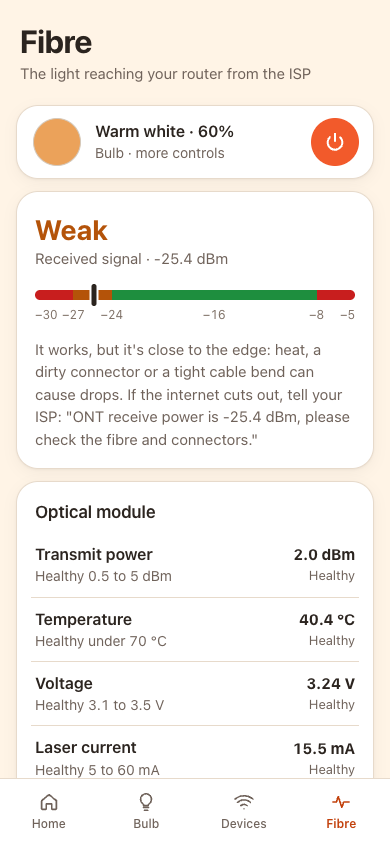
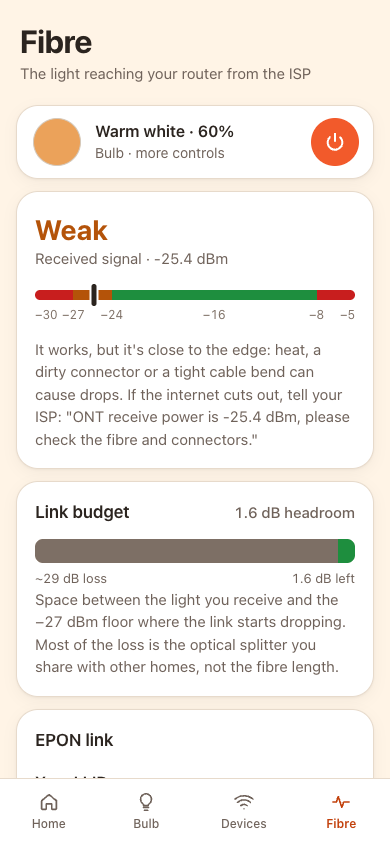
Fibre scope: EPON LLID, live MPCP clock, link budget, laser-health history
Extends the Fibre tab into a telemetry scope. New read-only diag calls expose
the ONT's LLID on the shared fibre and the MPCP local-time counter (16ns ticks),
which the page advances live between polls. Adds a link-budget headroom bar
against the -27 dBm floor, and a background logger (every 5 min, 24h ring
buffer) feeding an Rx-power + laser-bias chart to spot ageing and thermal dips.

Changed region(s): [[0.0308, 0.5853, 0.9846, 0.9242]]

diff --git a/router/pages/fibre.html b/router/pages/fibre.html
@@ -7,7 +7,6 @@
 <meta name="theme-color" content="#fff4e6" media="(prefers-color-scheme: light)">
 <meta name="theme-color" content="#1c1714" media="(prefers-color-scheme: dark)">
 <title>Fibre</title>
-<link rel="icon" href="data:,">
 <link rel="stylesheet" href="/style.css">
 <style>
   .verdict { font-size: 1.75rem; font-weight: 700; line-height: 1.15; margin: .25rem 0 .125rem; }
@@ -18,16 +17,34 @@
   .scale span { position: absolute; transform: translateX(-50%); }
   .scale span:first-child { transform: none; } .scale span:last-child { transform: translateX(-100%); }
   #advice { margin-top: 1rem; }
+  /* link-budget headroom bar */
+  .budget { height: 1.5rem; border-radius: 8px; background: var(--well); overflow: hidden; display: flex; }
+  .budget i { height: 100%; display: block; }
+  .budget .used { background: var(--ink-3); }
+  .budget .head { background: var(--good); }
+  .blabel { display: flex; justify-content: space-between; font-size: .8125rem; color: var(--ink-2); margin-top: .375rem; }
+  /* MPCP clock */
+  .clock { font-variant-numeric: tabular-nums; font-size: 1.5rem; font-weight: 700; letter-spacing: -.01em; }
+  .clock small { font-size: .8125rem; font-weight: 500; color: var(--ink-2); }
+  .beat { display: inline-block; width: .5rem; height: .5rem; border-radius: 50%; background: var(--good); margin-left: .375rem; vertical-align: middle; animation: beat 1s infinite; }
+  @keyframes beat { 0%, 100% { opacity: 1; } 50% { opacity: .25; } }
+  @media (prefers-reduced-motion: reduce) { .beat { animation: none; } }
+  /* history chart */
+  .chart { width: 100%; height: 90px; display: block; }
+  .chart path { fill: none; stroke-width: 2; }
+  .legend { display: flex; gap: 1rem; font-size: .8125rem; color: var(--ink-2); margin-top: .5rem; }
+  .legend b { font-weight: 600; }
+  .swatch { display: inline-block; width: .75rem; height: .2rem; border-radius: 2px; vertical-align: middle; margin-right: .25rem; }
 </style>
 </head>
 <body>
 <header class="top"><div><h1>Fibre</h1><p id="line">The light reaching your router from the ISP</p></div></header>
+
 <section class="card strip" aria-label="Bulb">
   <span class="lamp" id="lamp" aria-hidden="true"></span>
   <a class="tx" href="/bulb"><b id="bstate"><span class="skel">loading</span></b><small>Bulb · more controls</small></a>
   <button class="power sm" id="pwr" aria-label="Turn the bulb on or off" aria-pressed="false" disabled><svg class="i" viewBox="0 0 24 24"><path d="M12 3v8M6.3 6.8a8 8 0 1 0 11.4 0"/></svg></button>
 </section>
-
 
 <section class="card" aria-label="Received signal">
   <p class="verdict" id="word"><span class="skel">loading</span></p>
@@ -35,6 +52,31 @@
   <div class="meter" aria-hidden="true"><i id="needle" style="left:0"></i></div>
   <div class="scale" aria-hidden="true"><span style="left:0">−30</span><span style="left:12%">−27</span><span style="left:24%">−24</span><span style="left:56%">−16</span><span style="left:88%">−8</span><span style="left:100%">−5</span></div>
   <p class="note" id="advice"></p>
+</section>
+
+<section class="card">
+  <h2>Link budget <span id="headnum">–</span></h2>
+  <div class="budget" aria-hidden="true"><i class="used" id="bused"></i><i class="head" id="bhead"></i></div>
+  <div class="blabel"><span id="busedl">loss to you</span><span id="bheadl">headroom</span></div>
+  <p class="note">Space between the light you receive and the −27 dBm floor where the link starts dropping. Most of the loss is the optical splitter you share with other homes, not the fibre length.</p>
+</section>
+
+<section class="card">
+  <h2>EPON link</h2>
+  <div class="list">
+    <div class="row"><span class="tx"><b>Your LLID</b><small>Your identity on the shared fibre</small></span><span class="end" id="llid">–</span></div>
+    <div class="row"><span class="tx"><b>MPCP clock <span class="beat" id="beat" aria-hidden="true"></span></b><small>16 ns ticks, kept in sync with the ISP</small></span><span class="end clock" id="mpcp">–</span></div>
+  </div>
+</section>
+
+<section class="card">
+  <h2>Laser history <span id="span" class="sub"></span></h2>
+  <svg class="chart" id="chart" viewBox="0 0 300 90" preserveAspectRatio="none" aria-hidden="true"></svg>
+  <div class="legend">
+    <span><i class="swatch" style="background:var(--good)"></i>Rx power <b id="lrx">–</b></span>
+    <span><i class="swatch" style="background:var(--action)"></i>Laser bias <b id="lbias">–</b></span>
+  </div>
+  <p class="note">Rising bias current over weeks means the laser is ageing; a daily dip in Rx can mean heat. Samples every 5 minutes, up to 24 hours.</p>
 </section>
 
 <section class="card">
@@ -46,30 +88,27 @@
     <div class="row"><span class="tx"><b>Laser current</b><small>Healthy 5 to 60 mA</small></span><span class="end" id="bias">–</span></div>
   </div>
 </section>
-<p class="note">Closer to zero is stronger. −8 to −24 dBm is healthy; below −27 dBm the line starts dropping.</p>
+
 <nav class="tabs" aria-label="Sections">
   <a href="/"><svg class="i" viewBox="0 0 24 24"><path d="M4 10.5 12 4l8 6.5V20h-5v-6H9v6H4z"/></svg>Home</a>
   <a href="/bulb"><svg class="i" viewBox="0 0 24 24"><path d="M9 18h6M10 21h4M12 3a6 6 0 0 0-3.6 10.8c.7.6 1.1 1.3 1.1 2.2h5c0-.9.4-1.6 1.1-2.2A6 6 0 0 0 12 3z"/></svg>Bulb</a>
   <a href="/devices"><svg class="i" viewBox="0 0 24 24"><path d="M2 9a15 15 0 0 1 20 0M5 12.5a10 10 0 0 1 14 0M8.5 16a5 5 0 0 1 7 0M12 19.5h.01"/></svg>Devices</a>
   <a href="/fibre" aria-current="page"><svg class="i" viewBox="0 0 24 24"><path d="M3 12h4l2-6 4 12 2-6h6"/></svg>Fibre</a>
 </nav>
+
 <script>
 const $ = id => document.getElementById(id);
-// the router answers one request at a time and refuses others for ~0.2s, so retry briefly
 async function api(q, tries = 10) {
   for (let i = 0; ; i++) {
     try { return await (await fetch("/api?a=" + q)).json(); }
     catch (e) { if (i >= tries) throw e; await new Promise(r => setTimeout(r, 200)); }
   }
 }
-// slider fill: action colour while the light is on, muted when it's off
-const fill = (el, on = true) => el.style.setProperty("--track", `linear-gradient(90deg, ${on ? "var(--action)" : "var(--ink-3)"} ${(el.value - el.min) / (el.max - el.min) * 100}%, var(--well) 0)`);
 const whiteName = k => k <= 3000 ? "Warm white" : k <= 4600 ? "Neutral white" : "Daylight";
 const tempColor = k => { const t = (k - 2200) / 4300; const a = t < .42 ? [[255,154,60],[255,233,199],t/.42] : [[255,233,199],[227,237,255],(t-.42)/.58];
   return "rgb(" + a[0].map((v, i) => Math.round(v + (a[1][i] - v) * a[2])).join(",") + ")"; };
 const lampColor = s => !s || !s.state ? "var(--well)" : s.r !== undefined && !s.temp ? `rgb(${s.r},${s.g},${s.b})` : tempColor(s.temp || 2700);
-const lamp = (color, dim) => { $("lamp").style.setProperty("--lamp", color); $("lamp").style.filter = `brightness(${.8 + .2 * dim / 100})`; };
-// compact bulb strip: the light stays one tap away on every page
+const lamp = (c, dim) => { $("lamp").style.setProperty("--lamp", c); $("lamp").style.filter = `brightness(${.8 + .2 * dim / 100})`; };
 function strip(s) {
   const on = !!(s && s.state);
   $("pwr").disabled = !s; $("pwr").classList.toggle("on", on); $("pwr").setAttribute("aria-pressed", on);
@@ -80,16 +119,41 @@ async function loadStrip() { try { strip((await api("status")).result); } catch 
 $("pwr").onclick = async () => { $("pwr").classList.toggle("on"); try { await api("set&state=toggle"); } catch {} loadStrip(); };
 loadStrip();
 
-const show = (id, v, unit, lo, hi, dp = 1) => {
-  const el = $(id), ok = v != null && v >= lo && v <= hi;
-  el.innerHTML = v == null ? "No reading" : `<b class="${ok ? "" : "bad"}">${v.toFixed(dp)} ${unit}</b><small class="${ok ? "good" : "bad"}">${ok ? "Healthy" : "Out of range"}</small>`;
-};
-async function refresh() {
+// --- MPCP clock: read once, then advance locally at 62.5M ticks/sec (resynced on each fibre poll) ---
+let mpcpBase = null, mpcpAt = 0, mpcpHz = 62500000;
+function tickClock() {
+  if (mpcpBase == null) return;
+  const ticks = mpcpBase + Math.floor((performance.now() - mpcpAt) / 1000 * mpcpHz);
+  const t = ((ticks >>> 0) >>> 0).toString().padStart(10, "0");  // 32-bit wrap, grouped
+  $("mpcp").innerHTML = t.replace(/\B(?=(\d{3})+(?!\d))/g, " ") + " <small>ticks</small>";
+}
+setInterval(tickClock, 80);
+
+const ok = (v, lo, hi) => v != null && v >= lo && v <= hi;
+const paint = (id, v, unit, good, dp = 1) => { const el = $(id);
+  el.innerHTML = v == null ? "No reading" : `<b class="${good ? "" : "bad"}">${v.toFixed(dp)} ${unit}</b><small class="${good ? "good" : "bad"}">${good ? "Healthy" : "Out of range"}</small>`; };
+
+function budget(rx, tx) {
+  // headroom above the -27 dBm receiver floor; loss = (OLT launch, assume tx-side ~+4) - rx
+  const floor = -27, head = rx - floor, launch = 4, loss = launch - rx;
+  $("headnum").textContent = head.toFixed(1) + " dB headroom";
+  const total = loss + Math.max(head, 0);
+  $("bused").style.width = (loss / total * 100) + "%";
+  $("bhead").style.width = (Math.max(head, 0) / total * 100) + "%";
+  $("busedl").textContent = `~${loss.toFixed(0)} dB loss`;
+  $("bheadl").textContent = `${head.toFixed(1)} dB left`;
+}
+
+async function pollFibre() {
   if (document.hidden) return;
   try {
     const j = await api("fibre"), rx = j["rx-power"];
-    show("tx", j["tx-power"], "dBm", .5, 5); show("temp", j.temperature, "°C", -10, 70);
-    show("volt", j.voltage, "V", 3.1, 3.5, 2); show("bias", j["bias-current"], "mA", 5, 60);
+    paint("tx", j["tx-power"], "dBm", ok(j["tx-power"], .5, 5));
+    paint("temp", j.temperature, "°C", ok(j.temperature, -10, 70));
+    paint("volt", j.voltage, "V", ok(j.voltage, 3.1, 3.5), 2);
+    paint("bias", j["bias-current"], "mA", ok(j["bias-current"], 5, 60));
+    $("llid").textContent = j.llid == null ? "–" : "#" + j.llid;
+    if (j.mpcp != null) { mpcpBase = j.mpcp >>> 0; mpcpAt = performance.now(); mpcpHz = j.mpcp_hz || 62500000; tickClock(); }
     if (rx == null) { $("word").textContent = "No reading"; $("advice").textContent = "The optical module didn't answer. Try again in a moment."; return; }
     const [w, c, a] = rx > -8 ? ["Too strong", "bad", "Unusually strong, which can overload the receiver. Ask your ISP to check the line."]
       : rx >= -24 ? ["Healthy", "good", "Your fibre signal is healthy. Nothing to do."]
@@ -99,12 +163,30 @@ async function refresh() {
     $("rx").textContent = "Received signal · " + rx.toFixed(1) + " dBm";
     $("advice").textContent = a;
     $("needle").style.left = Math.min(100, Math.max(0, (rx + 30) / 25 * 100)) + "%";
+    budget(rx, j["tx-power"]);
     $("line").className = ""; $("line").textContent = "The light reaching your router from the ISP";
   } catch { $("line").textContent = "Can't reach the router right now"; $("line").className = "err"; }
 }
-refresh();
-setInterval(refresh, 10000);
-document.addEventListener("visibilitychange", refresh);
+
+function drawChart(s) {
+  if (!s || s.length < 2) { $("span").textContent = "(collecting…)"; return; }
+  const xs = s.map(r => r[0]), rx = s.map(r => r[1]), bias = s.map(r => r[4]);
+  const x0 = xs[0], x1 = xs[xs.length - 1] || x0 + 1;
+  const px = t => (t - x0) / (x1 - x0 || 1) * 300;
+  const line = (vals, pad) => { const lo = Math.min(...vals), hi = Math.max(...vals), r = hi - lo || 1;
+    return vals.map((v, i) => `${i ? "L" : "M"}${px(xs[i]).toFixed(1)} ${(80 - (v - lo) / r * (80 - 2 * pad) - pad).toFixed(1)}`).join(" "); };
+  $("chart").innerHTML = `<path d="${line(rx, 8)}" stroke="var(--good)"/><path d="${line(bias, 8)}" stroke="var(--action)"/>`;
+  $("lrx").textContent = rx[rx.length - 1].toFixed(1) + " dBm";
+  $("lbias").textContent = bias[bias.length - 1].toFixed(1) + " mA";
+  const mins = Math.round((x1 - x0) / 60);
+  $("span").textContent = mins >= 120 ? `last ${(mins / 60).toFixed(0)} h` : `last ${mins} min`;
+}
+async function pollLog() { if (document.hidden) return; try { drawChart((await api("fibrelog")).samples || []); } catch {} }
+
+pollFibre(); pollLog();
+setInterval(pollFibre, 5000);
+setInterval(pollLog, 60000);
+document.addEventListener("visibilitychange", () => { pollFibre(); pollLog(); });
 </script>
 </body>
 </html>

diff --git a/README.md b/README.md
@@ -35,7 +35,7 @@ Mac / wide screens (two columns):
 ## What it does
 - **Bulb** — on/off, brightness, white temperature, colours, WiZ scenes and speed, sleep timer.
 - **Devices** — who's on Wi-Fi with a device-type icon (phone, computer, TV, smart home, router) and OS guessed from its name and Wi-Fi chip, band, signal, live ↓/↑ speed and data since joining (from the Wi-Fi driver's `/proc/wlan*/sta_info`), wired devices from the bridge table.
-- **Fibre** — optical receive/transmit power, module temperature, voltage and laser current via the router's own `diag` tool, with a healthy/weak/critical verdict.
+- **Fibre** — a live optical scope: receive/transmit power, temperature, voltage and laser bias via the router's own `diag` tool with a healthy/weak/critical verdict, a link-budget headroom bar, your EPON **LLID** and the **MPCP clock** (the 16 ns-tick counter the OLT keeps the ONT synced to) ticking live, and a 24 h laser-health chart (Rx + bias) from a background logger.
 - **Internet-down alarm** — pings out every 20 s; on an outage the bulb blinks and stays red, then returns to what it showed before.
 - **`http://tazer`** — a spare LAN IP on the router, port 80 redirected to the app, and a side `dnsmasq` answering the name.
 
